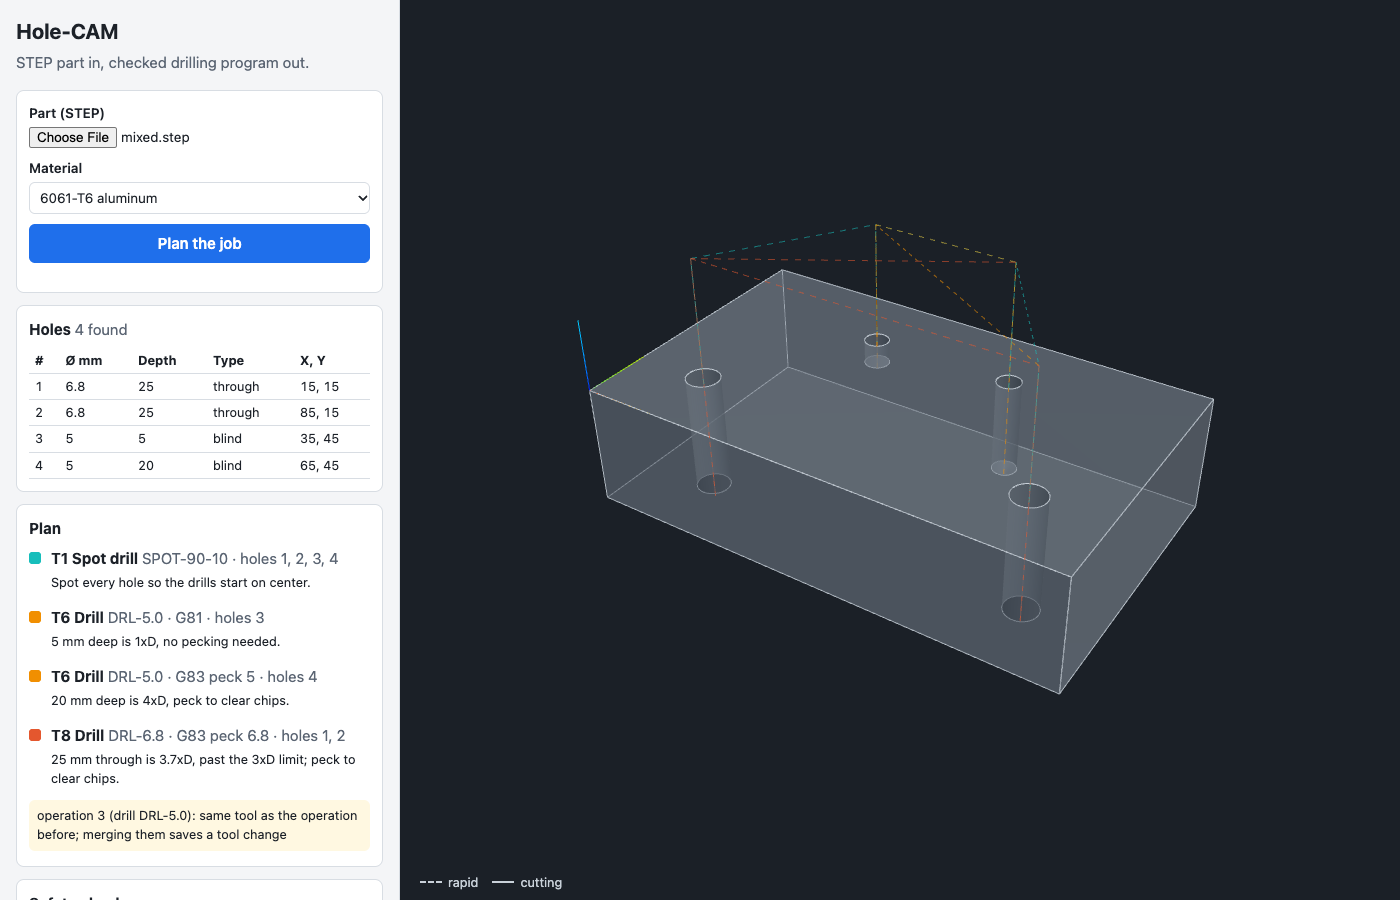
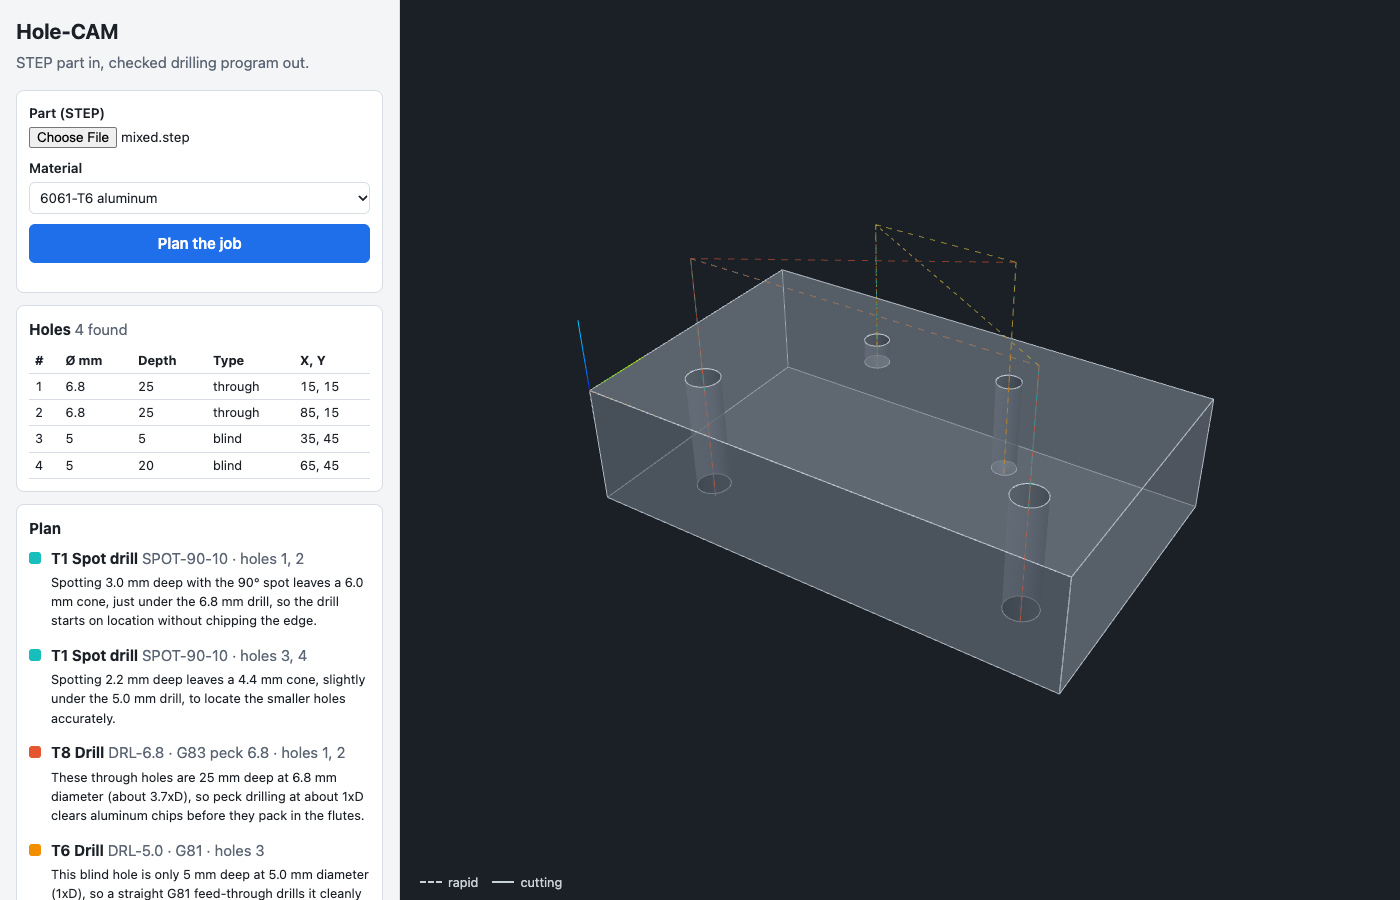
README: live run results and screenshot

Changed region(s): [[0.0, 0.6222, 0.2764, 1.0]]

diff --git a/README.md b/README.md
@@ -5,8 +5,7 @@ Upload a STEP part and get back a checked drilling program. Claude plans the job
 It's a weekend-sized version of the "engineering model → machining strategy → G-code" problem: holes only, one setup, a 3-axis mill.
 
 ![Hole-CAM showing a plate with four holes, the drilling plan and the 3D toolpath](docs/screenshot.png)
-<sub>The plan in this screenshot is the hand-written test plan, not Claude's.</sub>
-<!-- TODO: replace with a screenshot from a live Claude run -->
+<sub>A live run on the mixed test plate: the plan and its reasons are Claude's.</sub>
 
 ## The user and the problem
 
@@ -50,10 +49,10 @@ Anything that can break a tool if it's wrong is plain, tested code: geometry, fe
 - **G-code:** the reference program's speeds, feeds, depths and hole order were checked by hand against the formulas, and a test fails if the output ever changes.
 - **Safety checks:** a set of 20 programs, 18 with one planted problem each and 2 clean. Result: **18/18 caught, 0 false alarms.** Each bad program must trip exactly its planted check.
 - **The validator caught a mistake in my own plan:** I'd written plain drilling for 25 mm deep, 6.8 mm holes. That's 3.7× the diameter, past the 3× peck rule the tool is meant to enforce.
-- **The web page** was driven in a real browser (light mode, dark mode and phone width) with the planner faked.
+- **Live run:** the mixed plate through the real API and web page. Claude's plan passed validation and the program passed all six checks. Unprompted, Claude also warned that the 6.8 mm and 5.0 mm holes are M8 and M6 tap-drill sizes, so tapping may be missing. Planning takes about 15–20 seconds.
+- **The web page** was also driven in a real browser in light mode, dark mode and at phone width, with the planner faked.
 
 **Not verified yet:**
-- [ ] A live Claude run end to end <!-- TODO -->
 - [ ] A STEP file exported from real CAD software
 - [ ] The programs proven out on a machine or in a simulator (NCViewer / CAMotics)
 - [ ] Speeds and feeds checked against a drill maker's chart. Today they're conservative starting values.
